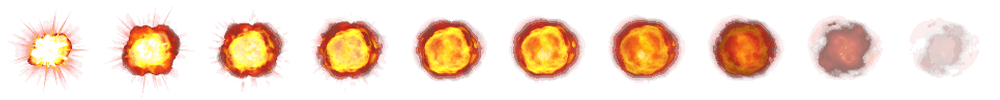
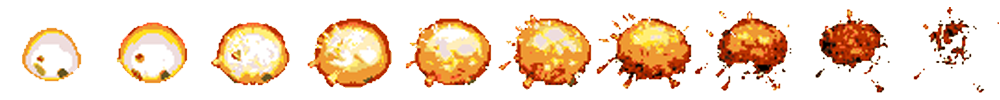
More events

diff --git a/gamepalclient/src/components/worldComponent.vue b/gamepalclient/src/components/worldComponent.vue
@@ -171,6 +171,7 @@
             <img id="meleeScratchEffect" src="../assets/image/effects/melee_scratch.png" />
             <img id="meleeCleaveEffect" src="../assets/image/effects/melee_cleave.png" />
             <img id="meleeStabEffect" src="../assets/image/effects/melee_stab.png" />
+            <img id="sparkEffect" src="../assets/image/effects/spark.png" />
 
             <img id="paofu" src="../assets/image/animals/paofu.png" />
             <img id="frog" src="../assets/image/animals/frog.png" />
@@ -240,6 +241,7 @@ let moraleLowEffect
 let meleeScratchEffect
 let meleeCleaveEffect
 let meleeStabEffect
+let sparkEffect
 
 let avatarsImage
 let bodiesImage
@@ -332,13 +334,11 @@ const FLAG_UPDATE_ITEMS = 'updateItems'
 const FLAG_UPDATE_PRESERVED_ITEMS = 'updatePreservedItems'
 const TERMINAL_TYPE_GAME = 1
 const GAME_TYPE_LAS_VEGAS = 1
-const EVENT_CODE_HIT = 101
 // const EVENT_CODE_HIT_FIRE = 102
 // const EVENT_CODE_HIT_ICE = 103
 // const EVENT_CODE_HIT_ELECTRICITY = 104
 const EVENT_CODE_UPGRADE = 105
 const EVENT_CODE_FIRE = 106
-const EVENT_CODE_SHOOT_SLUG = 107
 const EVENT_CODE_EXPLODE = 108
 const EVENT_CODE_BLEED = 109
 const EVENT_CODE_BLOCK = 110
@@ -348,11 +348,17 @@ const EVENT_CODE_SACRIFICE = 113
 const EVENT_CODE_TAIL_SMOKE = 114
 const EVENT_CODE_CHEER = 115
 const EVENT_CODE_CURSE = 116
+const EVENT_CODE_MELEE_HIT = 101
 const EVENT_CODE_MELEE_SCRATCH = 117
 const EVENT_CODE_MELEE_CLEAVE = 118
 const EVENT_CODE_MELEE_STAB = 119
 const EVENT_CODE_MELEE_KICK = 120
+const EVENT_CODE_SHOOT_HIT = 122
+const EVENT_CODE_SHOOT_ARROW = 123
+const EVENT_CODE_SHOOT_SLUG = 107
+const EVENT_CODE_SHOOT_MAGNUM = 124
 const EVENT_CODE_SHOOT_ROCKET = 121
+const EVENT_CODE_SPARK = 125
 const BUFF_CODE_DEAD = 1
 const BUFF_CODE_STUNNED = 2
 const BUFF_CODE_BLEEDING = 3
@@ -520,6 +526,7 @@ export default {
     meleeScratchEffect = document.getElementById('meleeScratchEffect')
     meleeCleaveEffect = document.getElementById('meleeCleaveEffect')
     meleeStabEffect = document.getElementById('meleeStabEffect')
+    sparkEffect = document.getElementById('sparkEffect')
     animalsImage = [
       document.getElementById('paofu'),
       document.getElementById('frog'),
@@ -1064,16 +1071,21 @@ export default {
         }
         return
       }
-      if (Number(block.code) == EVENT_CODE_TAIL_SMOKE) {
+      if (Number(block.code) == EVENT_CODE_TAIL_SMOKE
+      || Number(block.code) == EVENT_CODE_SHOOT_SLUG
+      || Number(block.code) == EVENT_CODE_SHOOT_MAGNUM
+      || Number(block.code) == EVENT_CODE_SHOOT_ROCKET) {
         context.save()
         context.fillStyle = 'rgba(127, 127, 127, ' + (1 - Number(block.id) / 25) + ')'
         context.beginPath()
-        context.arc(block.x * blockSize + deltaWidth, block.y * blockSize + deltaHeight, blockSize * (0.2 + Number(block.id) / 25 * 0.8), 0, 2 * Math.PI)
+        context.arc(block.x * blockSize + deltaWidth, (block.y - 0.5) * blockSize + deltaHeight, blockSize * (0.2 + Number(block.id) / 25 * 0.8), 0, 2 * Math.PI)
         context.fill()
         context.restore()
         return
       }
-      if (Number(block.code) == EVENT_CODE_HIT) {
+      if (Number(block.code) == EVENT_CODE_MELEE_HIT
+      || Number(block.code) == EVENT_CODE_MELEE_KICK
+      || Number(block.code) == EVENT_CODE_SHOOT_HIT) {
         img = hitEffect
         imageX = Math.floor((Number(block.id)) * 10 / 25) * imageBlockSize
       } else if (Number(block.code) == EVENT_CODE_UPGRADE) {
@@ -1116,19 +1128,14 @@ export default {
       } else if (Number(block.code) == EVENT_CODE_MELEE_CLEAVE) {
         img = meleeCleaveEffect
         imageX = Math.floor((Number(block.id)) * 10 / 25) % 10 * imageBlockSize
-      } else if (Number(block.code) == EVENT_CODE_MELEE_STAB) {
+      } else if (Number(block.code) == EVENT_CODE_MELEE_STAB
+      || Number(block.code) == EVENT_CODE_SHOOT_ARROW) {
         img = meleeStabEffect
         imageX = Math.floor((Number(block.id)) * 10 / 25) % 10 * imageBlockSize
-      } else if (Number(block.code) == EVENT_CODE_MELEE_KICK) {
-        img = hitEffect
-        imageX = Math.floor((Number(block.id)) * 10 / 25) * imageBlockSize
-      } else if (Number(block.code) == EVENT_CODE_SHOOT_SLUG) {
-        img = explodeEffect
-        imageX = Math.floor((Number(block.id)) * 10 / 25) * imageBlockSize
-      } else if (Number(block.code) == EVENT_CODE_SHOOT_ROCKET) {
-        img = explodeEffect
-        imageX = Math.floor((Number(block.id)) * 10 / 25) * imageBlockSize
-      } else {meleeStabEffect
+      } else if (Number(block.code) == EVENT_CODE_SPARK) {
+        img = sparkEffect
+        imageX = Math.floor((Number(block.id)) * 10 / 25) % 10 * imageBlockSize
+      } else {
         img = blockImages[Number(block.code)]
       }
       if (!this.isDef(img)) {
@@ -2658,6 +2665,7 @@ export default {
           if (Math.abs(blocks[i].x - playerInfo.coordinate.x) < 0.5 && Math.abs(blocks[i].y - 0.5 - playerInfo.coordinate.y) < 0.5) {
             playerInfo.speed.x = 0
             playerInfo.speed.y = 0
+          console.log(JSON.stringify(blocks[i]))
             newCoordinate.regionNo = blocks[i].to.regionNo
             newCoordinate.sceneCoordinate = blocks[i].to.sceneCoordinate
             newCoordinate.coordinate = blocks[i].to.coordinate
@@ -2718,6 +2726,7 @@ export default {
           itemName += (timestamp % 150 + 1)
           this.getItems(itemName, 1)
           this.getPreservedItems('t101', 1)
+          this.getPreservedItems('t201', 1)
           this.getPreservedItems('t202', 1)
           this.getPreservedItems('t203', 1)
           this.getPreservedItems('t204', 1)
@@ -3133,28 +3142,6 @@ export default {
         member = playerInfos[member.bossId]
       }
       return member.id
-    },
-    // Deprecated 24/03/04
-    addEvent (eventCode) {
-      if (!this.isDef(eventCode)) {
-        return
-      }
-      var newEventCoordinate = {
-        type: eventCode,
-        id: '',
-        code: userCode,
-        regionNo: playerInfo.regionNo,
-        sceneCoordinate: {
-          x: playerInfo.sceneCoordinate.x, 
-          y: playerInfo.sceneCoordinate.y
-        },
-        coordinate: {
-          x: playerInfo.coordinate.x + (Math.random() + 1) * Math.cos(playerInfo.faceDirection / 180 * Math.PI), 
-          y: playerInfo.coordinate.y - (Math.random() + 1) * Math.sin(playerInfo.faceDirection / 180 * Math.PI)
-        }
-      }
-      this.adjustSceneCoordinate(newEventCoordinate)
-      webSocketMessageDetail.functions.addEvents.push(newEventCoordinate)
     },
     drawAvatar (x, y, imageBlockSize, avatarSize, avatarIndex, nameColor) {
       this.$drawMethods.drawAvatar(context, x, y, imageBlockSize, avatarSize, avatarIndex, nameColor, avatarsImage)
